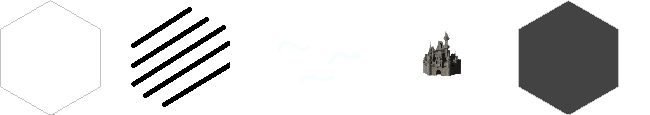
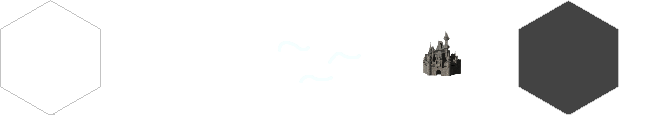
Occupation tiles

Changed region(s): [[0.1846, 0.0522, 0.3692, 0.9391]]

diff --git a/Assets/map/scripts/map_loader.cs b/Assets/map/scripts/map_loader.cs
@@ -12,7 +12,7 @@ public class map_loader : MonoBehaviour
     [SerializeField] private Map map;
 
     [SerializeField] private Tilemap base_layer;
-    [SerializeField] private Tilemap occupation_color_layer;
+    [SerializeField] private Tilemap occupation_layer;
     [SerializeField] private Tilemap terrain_feature_layer_1;
     [SerializeField] private Tilemap terrain_feature_layer_2;
     [SerializeField] private Tilemap filter_layer;
@@ -186,6 +186,8 @@ public class map_loader : MonoBehaviour
 
      public void SetPolitical() {
         filter_layer.ClearAllTiles();
+        base_layer.ClearAllTiles();
+        occupation_layer.ClearAllTiles();
 
         foreach (Province province in map.Provinces) {
             Country owner = map.Countries[province.Owner_id];
@@ -195,6 +197,13 @@ public class map_loader : MonoBehaviour
                 base_layer.SetTile(position, base_tile);
                 base_layer.SetColor(position, owner.Color);
                 if(owner.Capital == province.coordinates) terrain_feature_layer_2.SetTile(position, capital_tile);
+
+                if (province.OccupationInfo.IsOccupied)
+                {
+                    Country occupier = map.Countries[province.OccupationInfo.OccupyingCountryId];
+                    occupation_layer.SetTile(position, occupied_tile);
+                    occupation_layer.SetColor(position, occupier.Color);
+                }
             }
             else {
                 SetWater(position);
